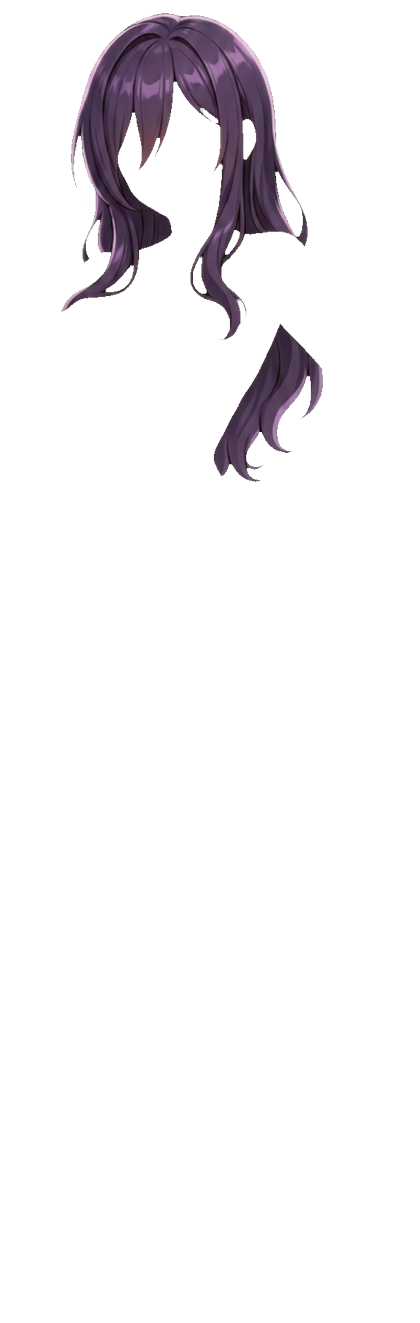
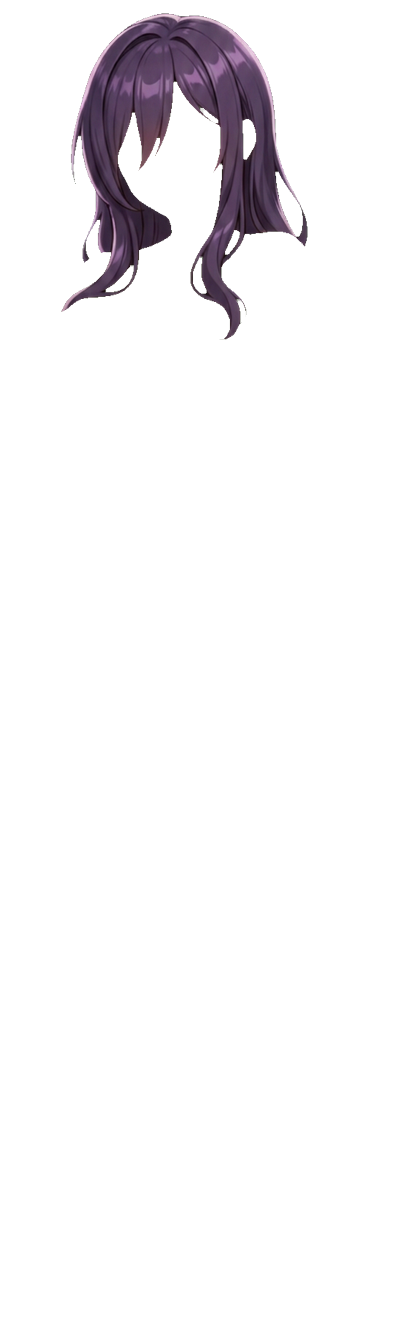
fix: separate front and back hair motion and remove redundant strands

Changed region(s): [[0.4952, 0.2479, 0.7738, 0.3719]]

diff --git a/sw.js b/sw.js
@@ -1,4 +1,4 @@
-const CACHE="dark-shy-tap-v5";const FILES=["./", "index.html", "css/style.css", "js/game.js", "data/content.js", "data/dialogue.js", "manifest.json", "assets/icons/silhouette.svg", "assets/characters/costume_apron.webp", "assets/characters/costume_bunny.webp", "assets/characters/costume_cardigan.webp", "assets/characters/costume_gown.webp", "assets/characters/costume_maid.webp", "assets/characters/costume_pool.webp", "assets/characters/costume_track.webp", "assets/characters/tier1.webp", "assets/characters/tier2.webp", "assets/characters/tier3.webp", "assets/characters/tier4.webp", "assets/characters/tier5.webp", "assets/backgrounds/bg1_classroom.webp", "assets/backgrounds/bg2_cafe.webp", "assets/backgrounds/bg3_bedroom.webp", "assets/backgrounds/bg4_rooftop.webp", "assets/backgrounds/bg5_beach.webp", "assets/icons/icon-192.png", "assets/icons/icon-512.png", "js/character-animation.js", "css/character-animation.css", "assets/characters/animation-manifest.json", "assets/characters/tier1/body_base.png", "assets/characters/tier1/hair_back.png", "assets/characters/tier1/hair_front.png", "assets/characters/tier1/face.png", "assets/characters/tier1/face_blink.png", "assets/characters/tier3/body_base.png", "assets/characters/tier3/hair_back.png", "assets/characters/tier3/hair_front.png", "assets/characters/tier3/face.png", "assets/characters/tier3/face_blink.png", "assets/characters/tier4/body_base.png", "assets/characters/tier4/hair_back.png", "assets/characters/tier4/hair_front.png", "assets/characters/tier4/face.png", "assets/characters/tier4/face_blink.png"];
+const CACHE="dark-shy-hair-v6";const FILES=["./", "index.html", "css/style.css", "js/game.js", "data/content.js", "data/dialogue.js", "manifest.json", "assets/icons/silhouette.svg", "assets/characters/costume_apron.webp", "assets/characters/costume_bunny.webp", "assets/characters/costume_cardigan.webp", "assets/characters/costume_gown.webp", "assets/characters/costume_maid.webp", "assets/characters/costume_pool.webp", "assets/characters/costume_track.webp", "assets/characters/tier1.webp", "assets/characters/tier2.webp", "assets/characters/tier3.webp", "assets/characters/tier4.webp", "assets/characters/tier5.webp", "assets/backgrounds/bg1_classroom.webp", "assets/backgrounds/bg2_cafe.webp", "assets/backgrounds/bg3_bedroom.webp", "assets/backgrounds/bg4_rooftop.webp", "assets/backgrounds/bg5_beach.webp", "assets/icons/icon-192.png", "assets/icons/icon-512.png", "js/character-animation.js", "css/character-animation.css", "assets/characters/animation-manifest.json", "assets/characters/tier1/body_base.png", "assets/characters/tier1/hair_back.png", "assets/characters/tier1/hair_front.png", "assets/characters/tier1/face.png", "assets/characters/tier1/face_blink.png", "assets/characters/tier3/body_base.png", "assets/characters/tier3/hair_back.png", "assets/characters/tier3/hair_front.png", "assets/characters/tier3/face.png", "assets/characters/tier3/face_blink.png", "assets/characters/tier4/body_base.png", "assets/characters/tier4/hair_back.png", "assets/characters/tier4/hair_front.png", "assets/characters/tier4/face.png", "assets/characters/tier4/face_blink.png"];
 self.addEventListener('install',e=>{e.waitUntil(caches.open(CACHE).then(c=>c.addAll(FILES)).then(()=>self.skipWaiting()));});
 self.addEventListener('activate',e=>{e.waitUntil(caches.keys().then(keys=>Promise.all(keys.filter(k=>k!==CACHE).map(k=>caches.delete(k)))).then(()=>self.clients.claim()));});
 self.addEventListener('fetch',e=>{if(e.request.method!=='GET'||new URL(e.request.url).origin!==location.origin)return;e.respondWith(fetch(e.request).then(r=>{if(r.ok){const copy=r.clone();caches.open(CACHE).then(c=>c.put(e.request,copy));}return r;}).catch(()=>caches.match(e.request).then(r=>r||(e.request.mode==='navigate'?caches.match('index.html'):Response.error()))));});

diff --git a/css/character-animation.css b/css/character-animation.css
@@ -102,11 +102,11 @@ body.tier-5 {
 }
 .rig-hair-back {
   transform-origin: var(--rig-hair-origin, center top);
-  animation: rigHairBack 4.2s ease-in-out infinite;
+  animation: rigHairBack 5.5s ease-in-out 0s infinite normal;
 }
 .rig-hair-front {
   transform-origin: var(--rig-hair-origin, center top);
-  animation: rigHairFront 4.5s ease-in-out infinite;
+  animation: rigHairFront 4s ease-in-out 0.8s infinite reverse;
 }
 .rig-face {
   transform-origin: 61% 10%;
@@ -186,23 +186,19 @@ body.tier-5 {
 @keyframes rigHairBack {
   0%,
   100% {
-    transform: rotate(calc(var(--hair-angle, 0.8deg) * -0.625))
-      translateX(calc(var(--hair-x, 1px) * -1));
+    transform: rotate(-0.3deg) translateX(-0.5px);
   }
   50% {
-    transform: rotate(var(--hair-angle, 0.8deg)) translateX(var(--hair-x, 1px))
-      translateY(-1px);
+    transform: rotate(0.3deg) translateX(0.5px);
   }
 }
 @keyframes rigHairFront {
   0%,
   100% {
-    transform: rotate(calc(var(--hair-angle, 0.8deg) * 0.5))
-      translateX(var(--hair-x, 1px));
+    transform: rotate(0.8deg) translateX(1px);
   }
   50% {
-    transform: rotate(calc(var(--hair-angle, 0.8deg) * -0.75))
-      translateX(calc(var(--hair-x, 1px) * -1)) translateY(-1px);
+    transform: rotate(-1deg) translateX(-1.5px);
   }
 }
 @keyframes rigCloth {
@@ -368,4 +364,38 @@ body.tier-5 {
 .character-stack:not(.show) .character-rig *:before,
 .character-stack:not(.show) .character-rig *:after {
   animation-play-state: paused !important;
+}
+
+/* Explicit stacking contexts: the body always occludes the back curtain. */
+.rig-back-react {
+  z-index: 1;
+}
+.rig-reactor {
+  z-index: 2;
+}
+.layer-body {
+  z-index: 2;
+}
+.rig-cloth {
+  z-index: 3;
+}
+.rig-face {
+  z-index: 4;
+}
+.rig-front-react {
+  z-index: 5;
+}
+/* Generated back components include a redundant crown. Keep the lower curtain,
+   while the front component alone owns the crown, bangs and face-framing locks. */
+.layer-hair-back {
+  -webkit-mask-image: linear-gradient(
+    to bottom,
+    transparent var(--back-hair-hidden, 0%),
+    black var(--back-hair-visible, 0%)
+  );
+  mask-image: linear-gradient(
+    to bottom,
+    transparent var(--back-hair-hidden, 0%),
+    black var(--back-hair-visible, 0%)
+  );
 }

diff --git a/js/character-animation.js b/js/character-animation.js
@@ -106,6 +106,16 @@
     }
     canvas.append(scene);
     root.dataset.animationMode = "layered";
+    if (config.hairBackReveal) {
+      root.style.setProperty(
+        "--back-hair-hidden",
+        (config.hairBackReveal[0] / config.canvas[1]) * 100 + "%",
+      );
+      root.style.setProperty(
+        "--back-hair-visible",
+        (config.hairBackReveal[1] / config.canvas[1]) * 100 + "%",
+      );
+    }
     const backReact = document.createElement("div");
     backReact.className = "rig-back-react";
     const backSway = document.createElement("div");
@@ -231,26 +241,25 @@
       );
       // Low-end mode retains the body bounce but omits hair and face effects.
       if (lowEnd()) continue;
-      for (const [selector, direction, duration] of [
-        [".rig-front-react", -1, 600],
-        [".rig-back-react", 1, 650],
-      ])
-        animateReaction(
-          root.querySelector(selector),
-          [
-            { transform: "rotate(0) translateY(0)" },
-            {
-              transform: `rotate(${direction * 3}deg) translateY(3px)`,
-              offset: 0.3,
-            },
-            {
-              transform: `rotate(${direction * -2}deg) translateY(-1px)`,
-              offset: 0.6,
-            },
-            { transform: "rotate(0) translateY(0)" },
-          ],
-          duration,
-        );
+      animateReaction(
+        root.querySelector(".rig-front-react"),
+        [
+          { transform: "rotate(0) translateY(0)" },
+          { transform: "rotate(-4deg) translateY(4px)", offset: 0.3 },
+          { transform: "rotate(2deg) translateY(0)", offset: 0.6 },
+          { transform: "rotate(0) translateY(0)" },
+        ],
+        600,
+      );
+      animateReaction(
+        root.querySelector(".rig-back-react"),
+        [
+          { transform: "rotate(0)" },
+          { transform: "rotate(-1deg)", offset: 0.4 },
+          { transform: "rotate(0)" },
+        ],
+        700,
+      );
       animateReaction(
         root.querySelector(".rig-face"),
         [

diff --git a/tools/clean_front_hair.py b/tools/clean_front_hair.py
@@ -1,0 +1,38 @@
+"""Remove a detached rear curl mistakenly drawn in the Tier 3 front component.
+Run after register_more_layers.py. This edits independent AI front art only,
+not a slice from a full character painting. Original candidates remain outside Git.
+"""
+from collections import deque
+from pathlib import Path
+import numpy as np
+from PIL import Image, ImageFilter
+
+path = Path('assets/characters/tier3/hair_front.png')
+im = Image.open(path).convert('RGBA')
+a = np.array(im.getchannel('A')) > 20
+seen = np.zeros(a.shape, dtype=bool)
+largest = []
+for y, x in zip(*np.where(a)):
+    if seen[y, x]:
+        continue
+    seen[y, x] = True
+    queue = deque([(y, x)])
+    component = []
+    while queue:
+        yy, xx = queue.popleft()
+        component.append((yy, xx))
+        for dy, dx in ((0,1), (0,-1), (1,0), (-1,0)):
+            ny, nx = yy + dy, xx + dx
+            if 0 <= ny < a.shape[0] and 0 <= nx < a.shape[1] and a[ny,nx] and not seen[ny,nx]:
+                seen[ny,nx] = True
+                queue.append((ny,nx))
+    if len(component) > len(largest):
+        largest = component
+mask = np.zeros(a.shape, dtype=np.uint8)
+for y, x in largest:
+    mask[y,x] = 255
+# Include the main component's antialiased fringe without retaining detached art.
+mask = Image.fromarray(mask).filter(ImageFilter.MaxFilter(5))
+alpha = np.minimum(np.array(im.getchannel('A')), np.array(mask))
+im.putalpha(Image.fromarray(alpha))
+im.save(path, optimize=True)

diff --git a/ANIMATION-NOTES.md b/ANIMATION-NOTES.md
@@ -60,3 +60,11 @@ Tap reactions now use Web Animations API effects on dedicated body/hair reaction
 All rig parts now share one center-bottom breathing wrapper. Hair pivots use top-center, adjusted to the head position for padded kneeling art. Hidden tabs cancel transient effects; reduced motion suppresses reactions; low-end mode keeps the body bounce with breathing only. Legacy `.char-tap` selectors and tap keyframes have been removed.
 
 Regression: `tests/tap-animation.cjs` runs a real Chromium browser against `GAME_URL` (default local preview port 8765). Four scenarios (layered tiers 1/3/4, fallback tier 2; mouse/touch; 8/2 cores) each verify ten rapid taps, exactly ten earnings events and reactions, no hidden ancestor/body frames, unchanged CSS animation identities/start times, zero residual WAAPI effects, and tier swapping. Blink transition samples verify open/closed opacity sums to one. All scenarios, renderer unit tests, and game smoke tests pass. This bugfix is authorized for immediate deployment, superseding the earlier hold for five completed rigs.
+
+## Duplicate hair bugfix
+
+Idle back hair is now 5.5s, ±0.3deg / ±0.5px, no delay, normal direction. Front hair is 4s, +0.8 to -1deg / +1 to -1.5px, delayed 0.8s, reverse direction. Motion remains on nested sway wrappers, not the PNGs, preserving WAAPI reaction isolation. Front tap whips -4deg/+2deg with 4px lift for 600ms; back tap only rotates -1deg for 700ms.
+
+Explicit stacking contexts enforce back curtain < body/cloth/face < front hair. Per-rig manifest `hairBackReveal` coordinates mask redundant back crowns while retaining the lower rear curtain behind the body. The mask uses the original layer canvas, including Tier 4's padded head position, with WebKit and standard CSS mask declarations. No blanket bottom fade removes the real back curtain. Tier 3's front component contained a detached rear curl; `tools/clean_front_hair.py` removes only that disconnected component, retaining the front bangs/locks and their antialiased edges. Run this cleanup after re-running `register_more_layers.py`.
+
+`tests/hair-animation.cjs` verifies all five tier modes, three layered rigs' distinct CSS timing/direction and sampled transforms, masks, stacking contexts, and asymmetric WAAPI tap keyframes. Tiers 2/5 are explicitly checked as single-image fallbacks. Desktop screenshots for all five were reviewed; no extra crown or detached duplicate rear curl remains in the layered composites. Tap-spam, idle clock stability, touch single-fire, low-end bounce, blink transition, renderer unit and smoke tests also pass. Tests use Chromium; native-device rendering remains unverified.
